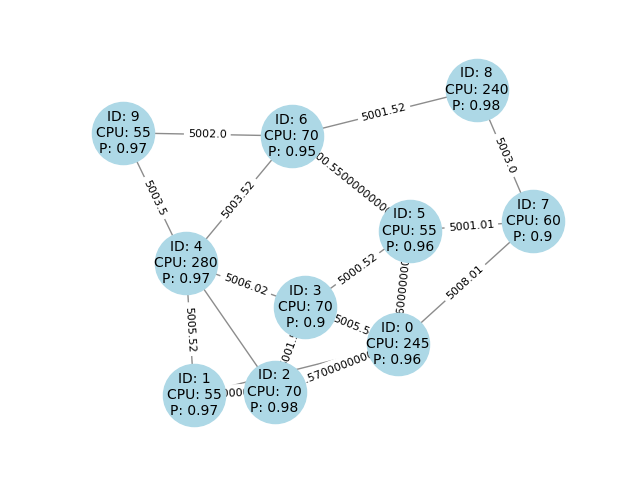
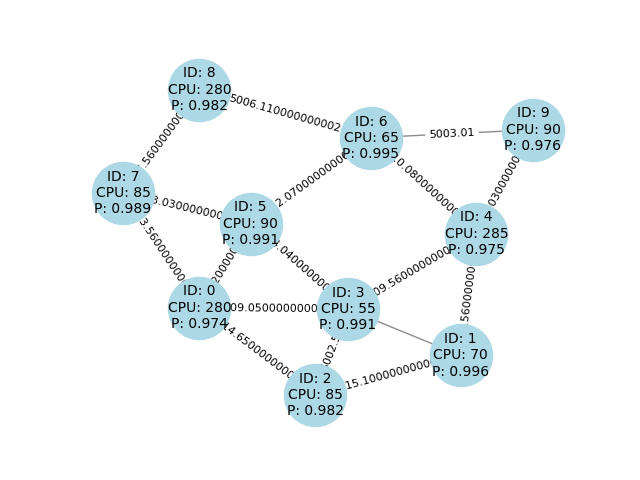
added the new reliability parameters in the nslr and graph

Changed region(s): [[0.125, 0.125, 0.9062, 0.9062], [0.625, 0.3438, 0.6562, 0.375]]

diff --git a/Deep_QLearning_5G-master/main_deepsara.py b/Deep_QLearning_5G-master/main_deepsara.py
@@ -40,7 +40,7 @@ agente = None
 
 
 #RL-specific parameters 
-episodes = 100 #240##350
+episodes = 1 #240##350
 
 
 
@@ -338,7 +338,7 @@ def resource_allocation(cn, index, already_backup, a, reliability_total): #cn=co
     vnf = vnfs[index]
     reliability = 0    
 
-    rejected, reliability, already_backup = nsl_placement.nsl_placement(req, index, substrate, already_backup, a, reliability_total)#mapping  ## here try to allocate the nslr req in the substrate graph
+    rejected, rejected_r, reliability, already_backup = nsl_placement.nsl_placement(req, index, substrate, already_backup, a, reliability_total)#mapping  ## here try to allocate the nslr req in the substrate graph
         
     if not rejected: ## successfully mapped
          
@@ -367,7 +367,7 @@ def resource_allocation(cn, index, already_backup, a, reliability_total): #cn=co
             
         
              
-    return profit_reliability, already_backup
+    return profit_reliability, rejected_r, already_backup
 
 
 
@@ -497,28 +497,36 @@ def func_arrival(c,evt): #NSL arrival, we will treate the one URLLC request arri
         #print("the state is : ", state)
 
         a =   agente.step(state,r)  
+       
      
 
-        profit_reliability, already_backup = resource_allocation(c, index, already_backup, a, reliability_total)
+        profit_reliability, rejected_r, already_backup = resource_allocation(c, index, already_backup, a, reliability_total)
         #r = profit_reliability  #here for the first solution
-        
-        if (profit_reliability == -1): ## vnf rejected
-            r= -1
-            sim.reject_nslr = sim.reject_nslr +1
-            print("RESSOURCES ISSUE ____________________ ")
-            break
-
-        reliability_total = reliability_total*profit_reliability
         r = 0
-        #print("THE REWARD : ", r)
-        ## adding the reward of the entire nslr
-        if (index == len(vnfs)-1): ## we are on the last vnf
-            if(reliability_total <= sim.request.nsl_graph["reliability"]):
+         
+        if (profit_reliability == -1):  ## vnf is rejected-->  ressources issue or reability issue
+
+            if (index != len(vnfs)-1): ## its not the last episode, ressources forcly
                 r = -1
-                sim.reject_r_issue = sim.reject_r_issue+1
+                sim.reject_nslr = sim.reject_nslr +1
+                
                 break
-            else: ## means we have instantiated one whole nslr
+            else: ## its the last one
+                if(rejected_r): ## reliability issue
+                    r = -1
+                    sim.reject_r_issue = sim.reject_r_issue+1
+                    print("AMEEEEEl")
+                    break
+                else: ## last vnf and ressource issue
+                    r = -1
+                    sim.reject_nslr = sim.reject_nslr +1
+                   
+                    break
+        else:
+            if (index == len(vnfs)-1):
+                reliability_total = reliability_total*profit_reliability
                 sim.accepted_reqs = sim.accepted_reqs +1
+                print("accept")
 
                 ## define the new reward here:
                 for i in range(len(vnfs)):
@@ -543,7 +551,6 @@ def func_arrival(c,evt): #NSL arrival, we will treate the one URLLC request arri
                 sim.list_profit.append(r)
 
                 print("the reward total: ", r)
-
 
         
 
@@ -589,7 +596,7 @@ def func_terminate(c,evt):   ## terminates a request, updates the ressources and
 ############## BEFORE 
 
     
-    if sim.terminate_events == 20:
+    if sim.terminate_events == 50:
         for node in c.substrate.graph["nodes"]:
             G.add_node(node["id"], cpu=node["cpu"], p=node["p"])
             #print("node:, ", node["id"])
@@ -612,7 +619,7 @@ def func_terminate(c,evt):   ## terminates a request, updates the ressources and
 ############ REQUEST
     
 
-    if sim.terminate_events == 20:
+    if sim.terminate_events == 50:
         for node in request.nsl_graph["vnfs"]:
             G.add_node(node["id"], cpu=node["cpu"], mapped=node["mapped_to"])
             
@@ -632,7 +639,7 @@ def func_terminate(c,evt):   ## terminates a request, updates the ressources and
 
 ################ AFTER
     
-    if sim.terminate_events == 20:
+    if sim.terminate_events == 50:
         for node in c.substrate.graph["nodes"]:
             G.add_node(node["id"], cpu=node["cpu"], p=node["p"])
             #print("node:, ", node["id"])
@@ -834,7 +841,7 @@ def main():
                 # controller.substrate = copy.deepcopy(substrate_graphs.get_graph("abilene")) #get substrate    
                 centralized_initial = controller.substrate.graph["centralized_cpu"]
                 bw_initial = controller.substrate.graph["bw"]
-                controller.simulation.set_run_till(15)   ## set the run_till variable of SIm to 15, the end of the simulatin is after 15 time units
+                controller.simulation.set_run_till(5)   ## set the run_till variable of SIm to 15, the end of the simulatin is after 15 time units
                                                         ## initially was 15
                 prepare_sim(controller.simulation)   ## creates the arrival events and the twindow_end event to prepare the environment          
                 controller.run()    ## runs all the events of the list one by one, here we execute the run of the class SIm, and a function for each event  
@@ -842,7 +849,6 @@ def main():
                 episode_profit_r2c = sum(controller.simulation.list_profit_r2c) / len(controller.simulation.list_profit_r2c) 
                 episode_profit_reability = sum(controller.simulation.list_profit_reability) / len(controller.simulation.list_profit_reability) 
  
-
 
                 print("the lost requests: ", controller.simulation.reject_r_issue)
                 print("the lost requests: ", controller.simulation.reject_nslr)

diff --git a/Deep_QLearning_5G-master/nsl_placement.py b/Deep_QLearning_5G-master/nsl_placement.py
@@ -76,6 +76,7 @@ def nsl_placement(req, index, substrate, already_backup, a, reliability_total): 
     ################### vnfs admission #################  
     ## here we have only two vnodes according if the vnfs are primary or backup, then aleardy will be used to put them in different nodes 
     rejected = False
+    rejected_r = False
     n = substrate.graph["nodes"][a]
     reliability = 0
     #already_backup = [[],[]] #list of nodes that already hold a vnode
@@ -109,6 +110,7 @@ def nsl_placement(req, index, substrate, already_backup, a, reliability_total): 
             if(reliability_total*reliability <= req.nsl_graph["reliability"]):
                 reliability = -1
                 rejected = True
+                rejected_r = True
                
                 print("REABIILTY ISSUE --------------------- ")
 
@@ -158,7 +160,7 @@ def nsl_placement(req, index, substrate, already_backup, a, reliability_total): 
     #if rejected:
          #print("\n\n","***rejected by the lack of link rsc","\n\n")
     
-    return rejected, reliability, already_backup
+    return rejected, rejected_r, reliability, already_backup
 
 
 

diff --git a/Deep_QLearning_5G-master/substrate_graphs.py b/Deep_QLearning_5G-master/substrate_graphs.py
@@ -56,16 +56,16 @@ substrate10 = {"directed": False, "multigraph": False,
  "min_bw_cost": 400.0, "max_bw_revenue": 3000.0, 
  "max_cpu_profit": 2300.0, "max_bw_profit": 2600.0, 
  "nodes": [
-      {"p":0.96, "cpu": 300, "id": 0}, 
-      {"p":0.97, "cpu": 100, "id": 1}, 
-      {"p":0.98, "cpu": 100, "id": 2}, 
-      {"p":0.9, "cpu": 100, "id": 3}, 
-      {"p":0.97, "cpu": 300, "id": 4}, 
-      {"p":0.96, "cpu": 100, "id": 5}, 
-      {"p":0.95, "cpu": 100, "id": 6}, 
-      {"p":0.9, "cpu": 100, "id": 7}, 
-      {"p":0.98, "cpu": 300, "id": 8}, 
-      {"p":0.97, "cpu": 100, "id": 9}],  
+      {"p":0.974, "cpu": 300, "id": 0}, 
+      {"p":0.996, "cpu": 100, "id": 1}, 
+      {"p":0.982, "cpu": 100, "id": 2}, 
+      {"p":0.991, "cpu": 100, "id": 3}, 
+      {"p":0.975, "cpu": 300, "id": 4}, 
+      {"p":0.991, "cpu": 100, "id": 5}, 
+      {"p":0.995, "cpu": 100, "id": 6}, 
+      {"p":0.989, "cpu": 100, "id": 7}, 
+      {"p":0.982, "cpu": 300, "id": 8}, 
+      {"p":0.976, "cpu": 100, "id": 9}],  
  "links": [
      {"bw": 5000, "source": 0, "target": 2}, 
      {"bw": 5000, "source": 0, "target": 3}, 

diff --git a/Deep_QLearning_5G-master/nsl_request.py b/Deep_QLearning_5G-master/nsl_request.py
@@ -37,7 +37,7 @@ nsl_graph_urllc_1 =  {
                         #{"source":4,"target":6}
 
             ], 
-            "reliability":0.7
+            "reliability":0.95
 }
 
 nsl_graph_urllc_2 =  {
@@ -66,7 +66,7 @@ nsl_graph_urllc_2 =  {
                         {"source":1,"target":5},
                         {"source":3,"target":4}
             ],
-            "reliability":0.7
+            "reliability":0.95
 }
 nsl_graph_urllc_3 =  {
             "vnfs": [
@@ -82,7 +82,7 @@ nsl_graph_urllc_3 =  {
                         {"source":2,"target":3},
                         {"source":3,"target":4}
             ],
-            "reliability":0.7
+            "reliability":0.95
 }
 
 class NSLR():
